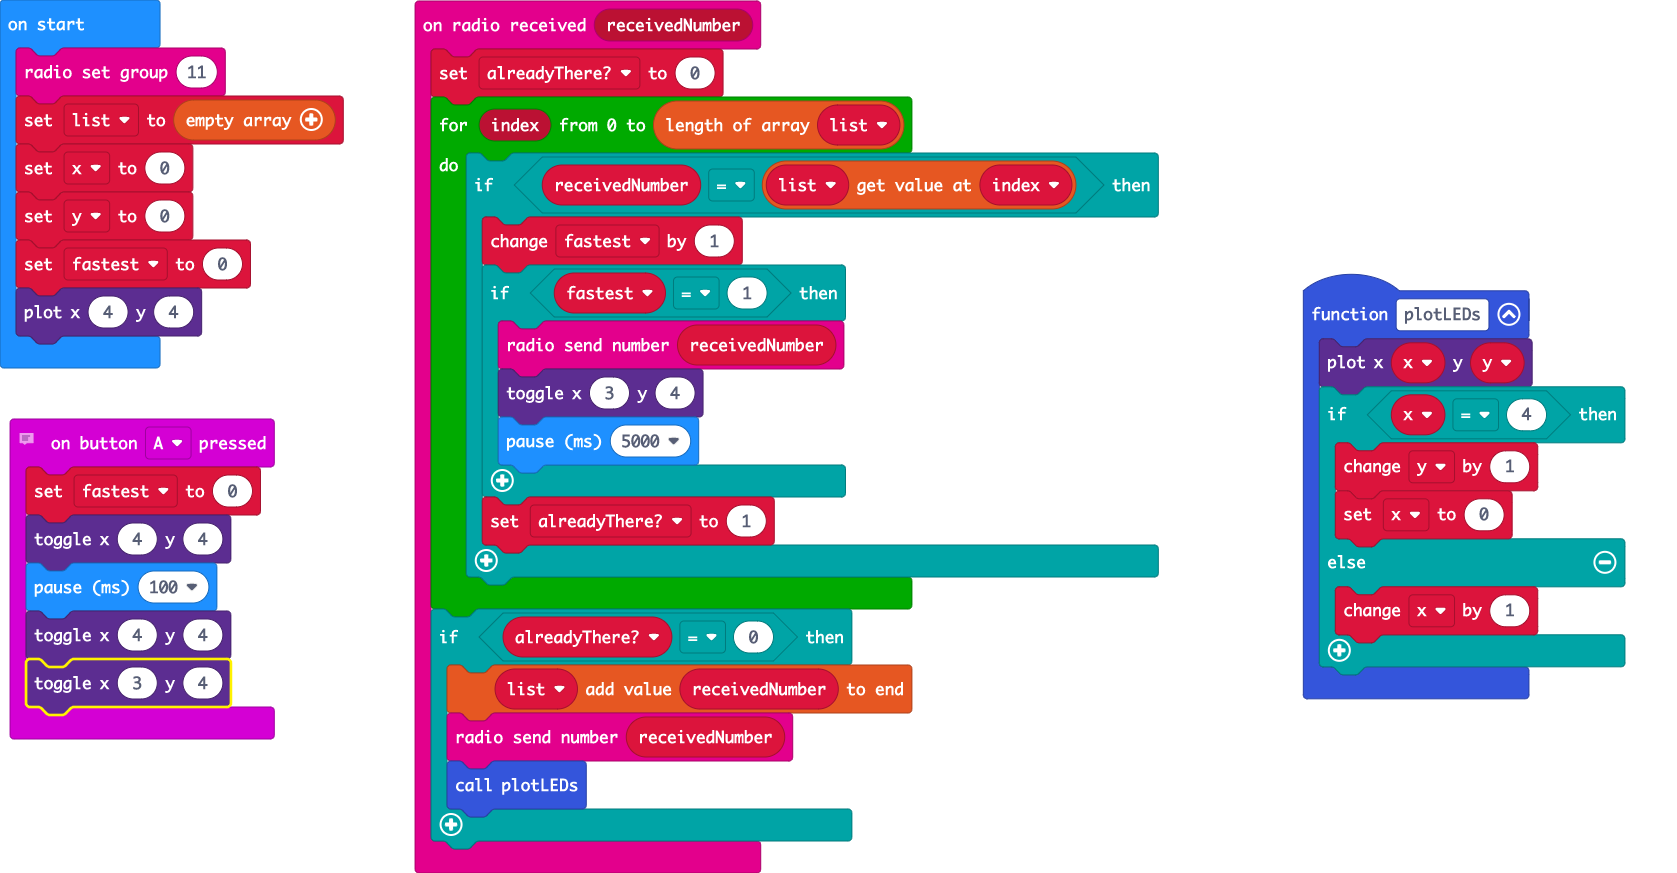
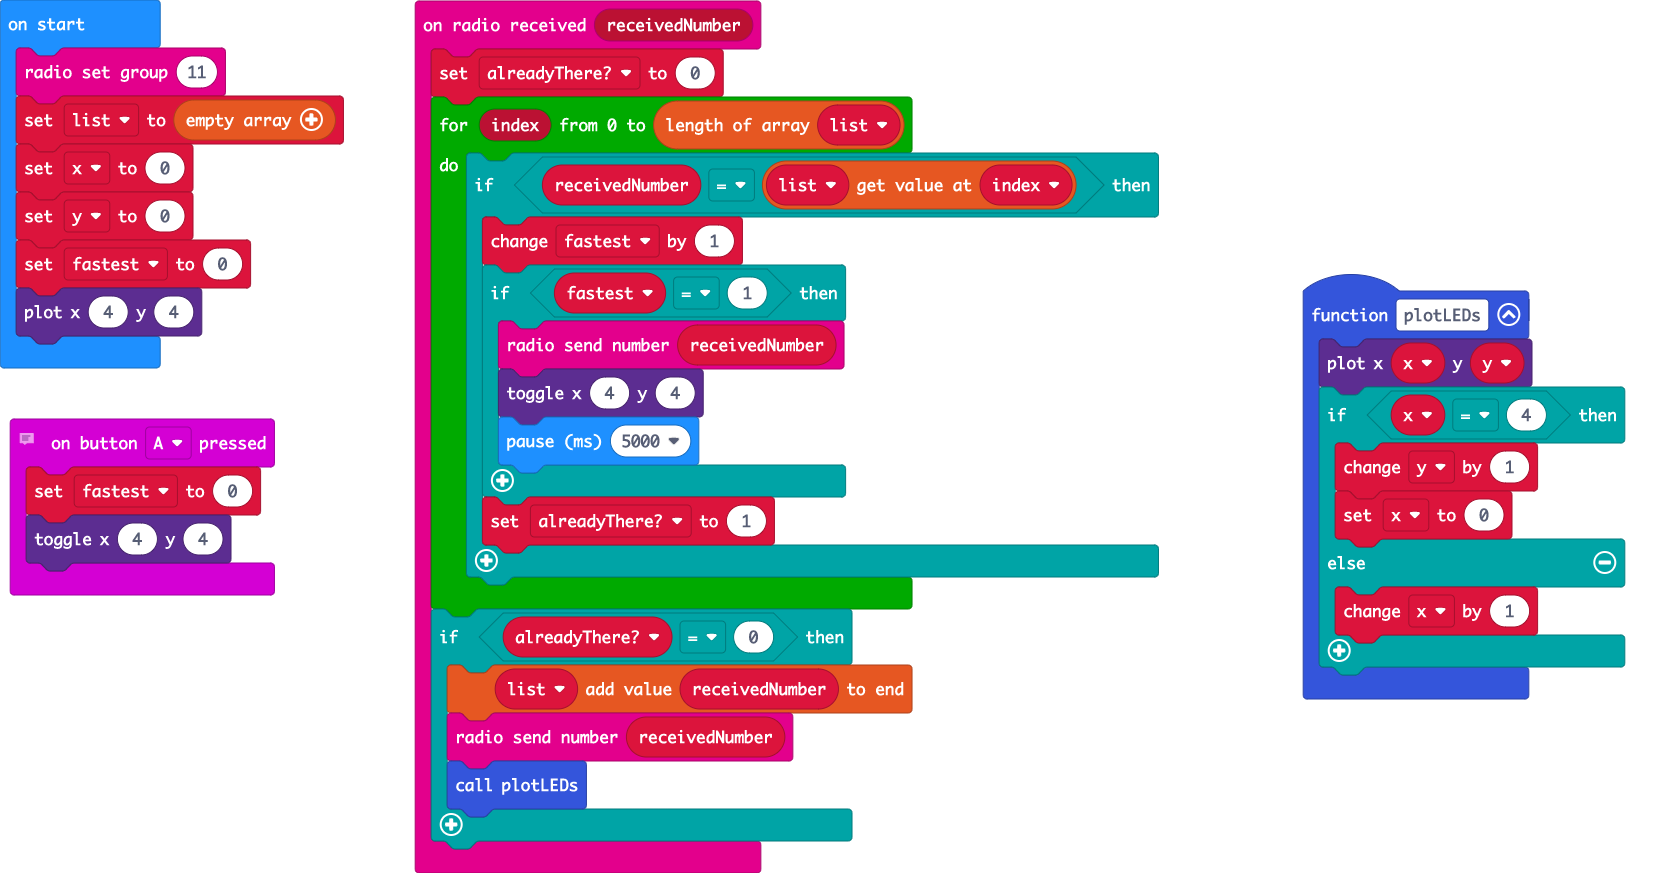
Update main.blocks, main.ts

diff --git a/main.ts b/main.ts
@@ -5,7 +5,7 @@ radio.onReceivedNumber(function (receivedNumber) {
             fastest += 1
             if (fastest == 1) {
                 radio.sendNumber(receivedNumber)
-                led.toggle(3, 4)
+                led.toggle(4, 4)
                 basic.pause(5000)
             }
             alreadyThere = 1
@@ -21,9 +21,6 @@ radio.onReceivedNumber(function (receivedNumber) {
 input.onButtonPressed(Button.A, function () {
     fastest = 0
     led.toggle(4, 4)
-    basic.pause(100)
-    led.toggle(4, 4)
-    led.toggle(3, 4)
 })
 function plotLEDs () {
     led.plot(x, y)
